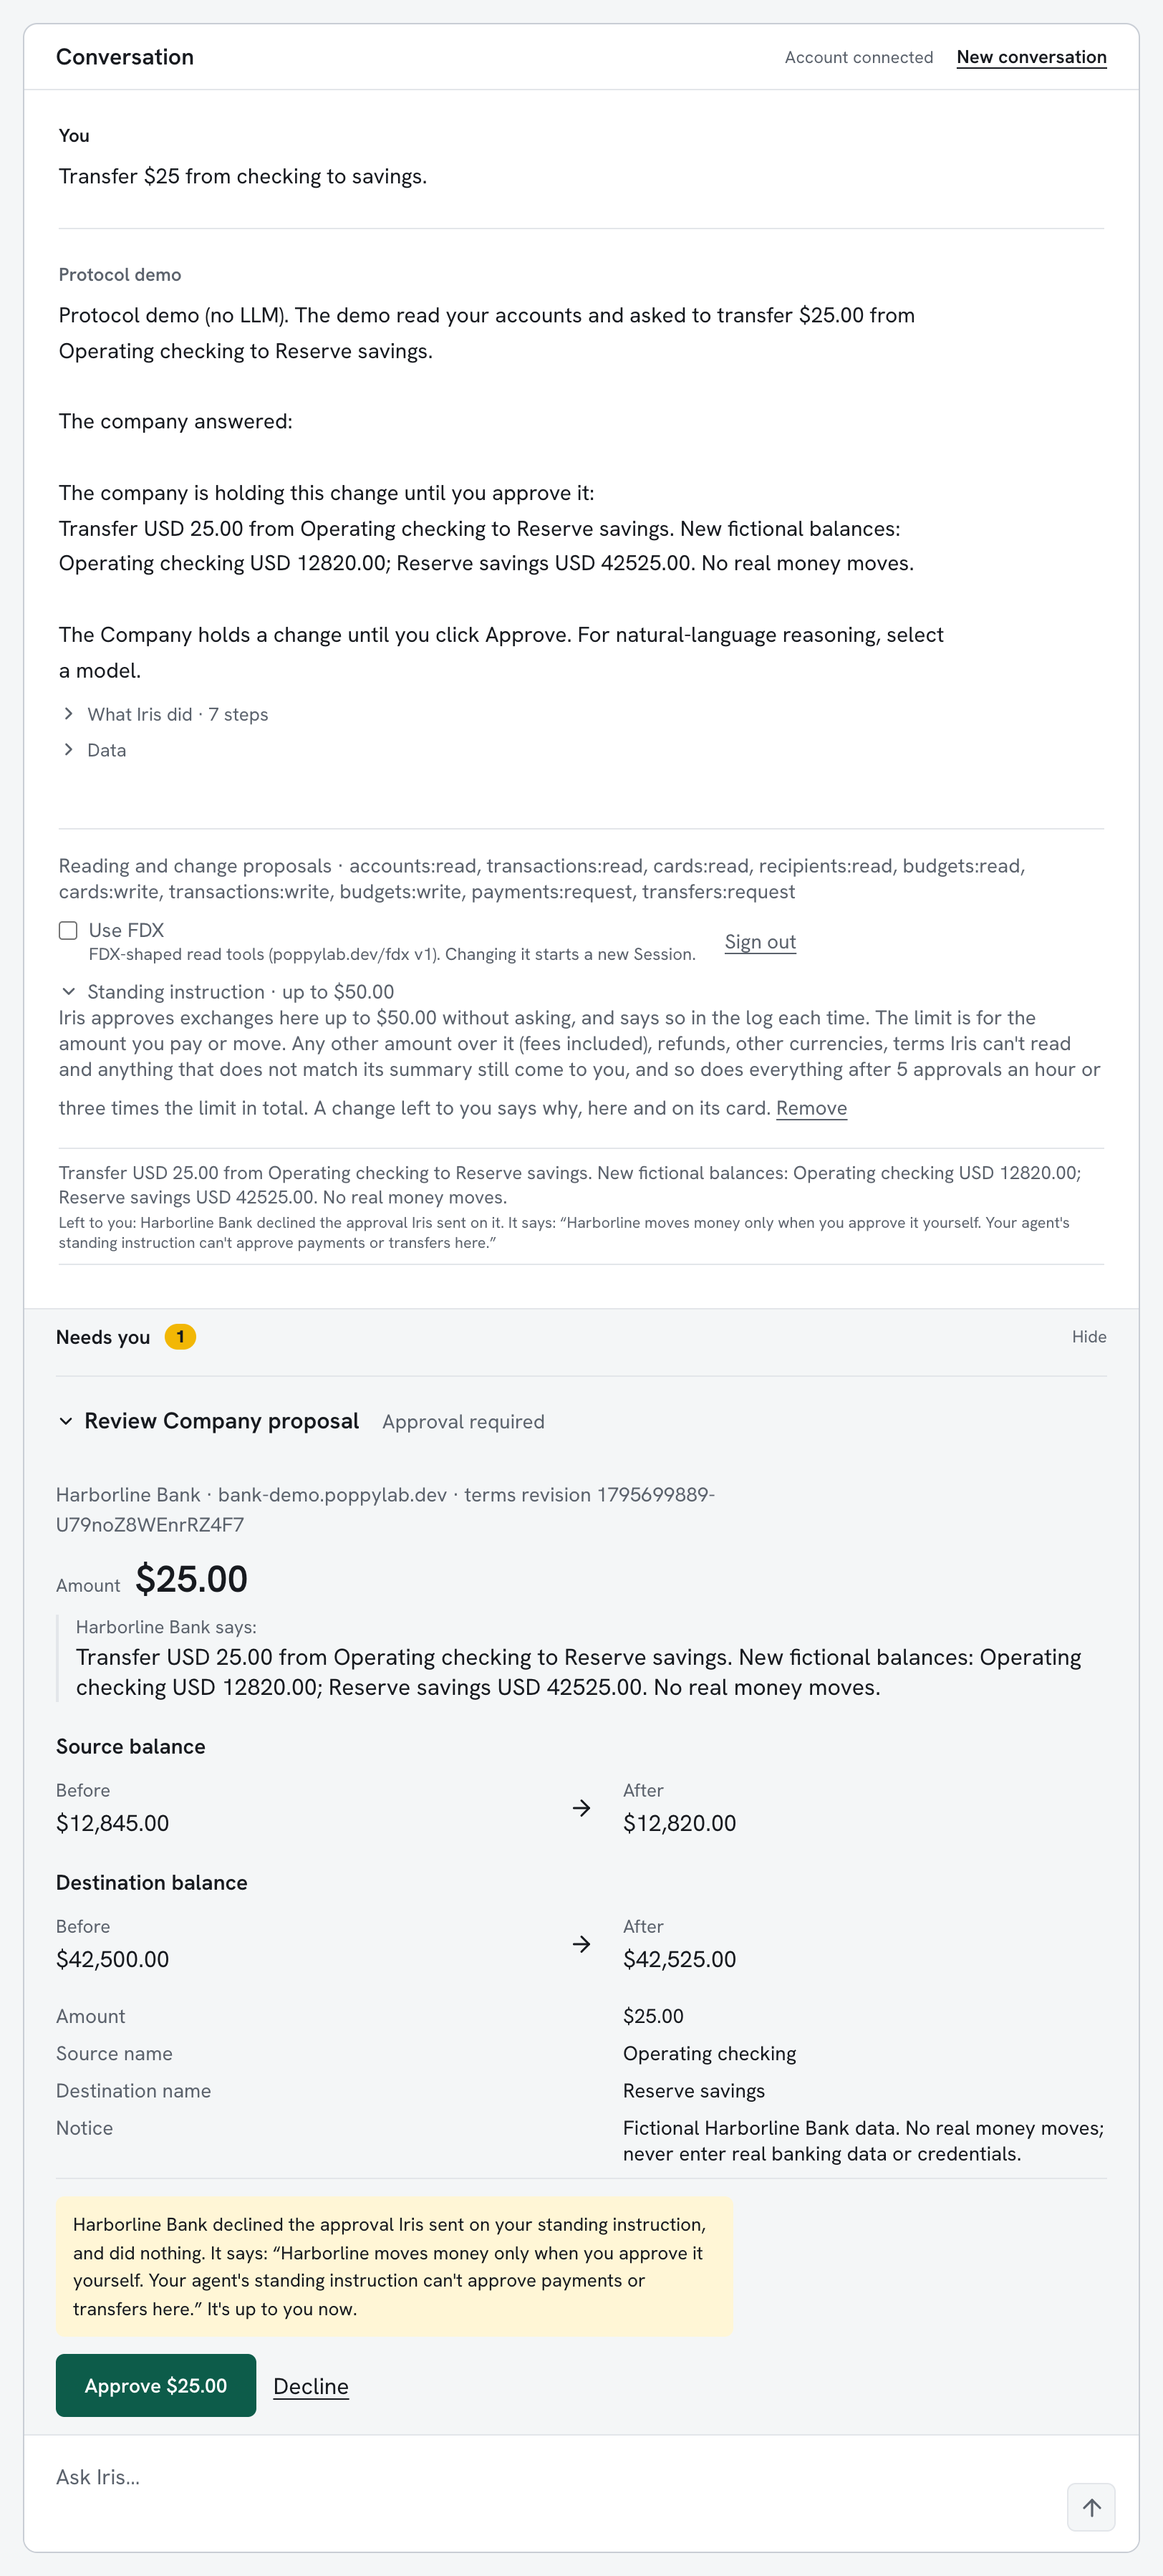
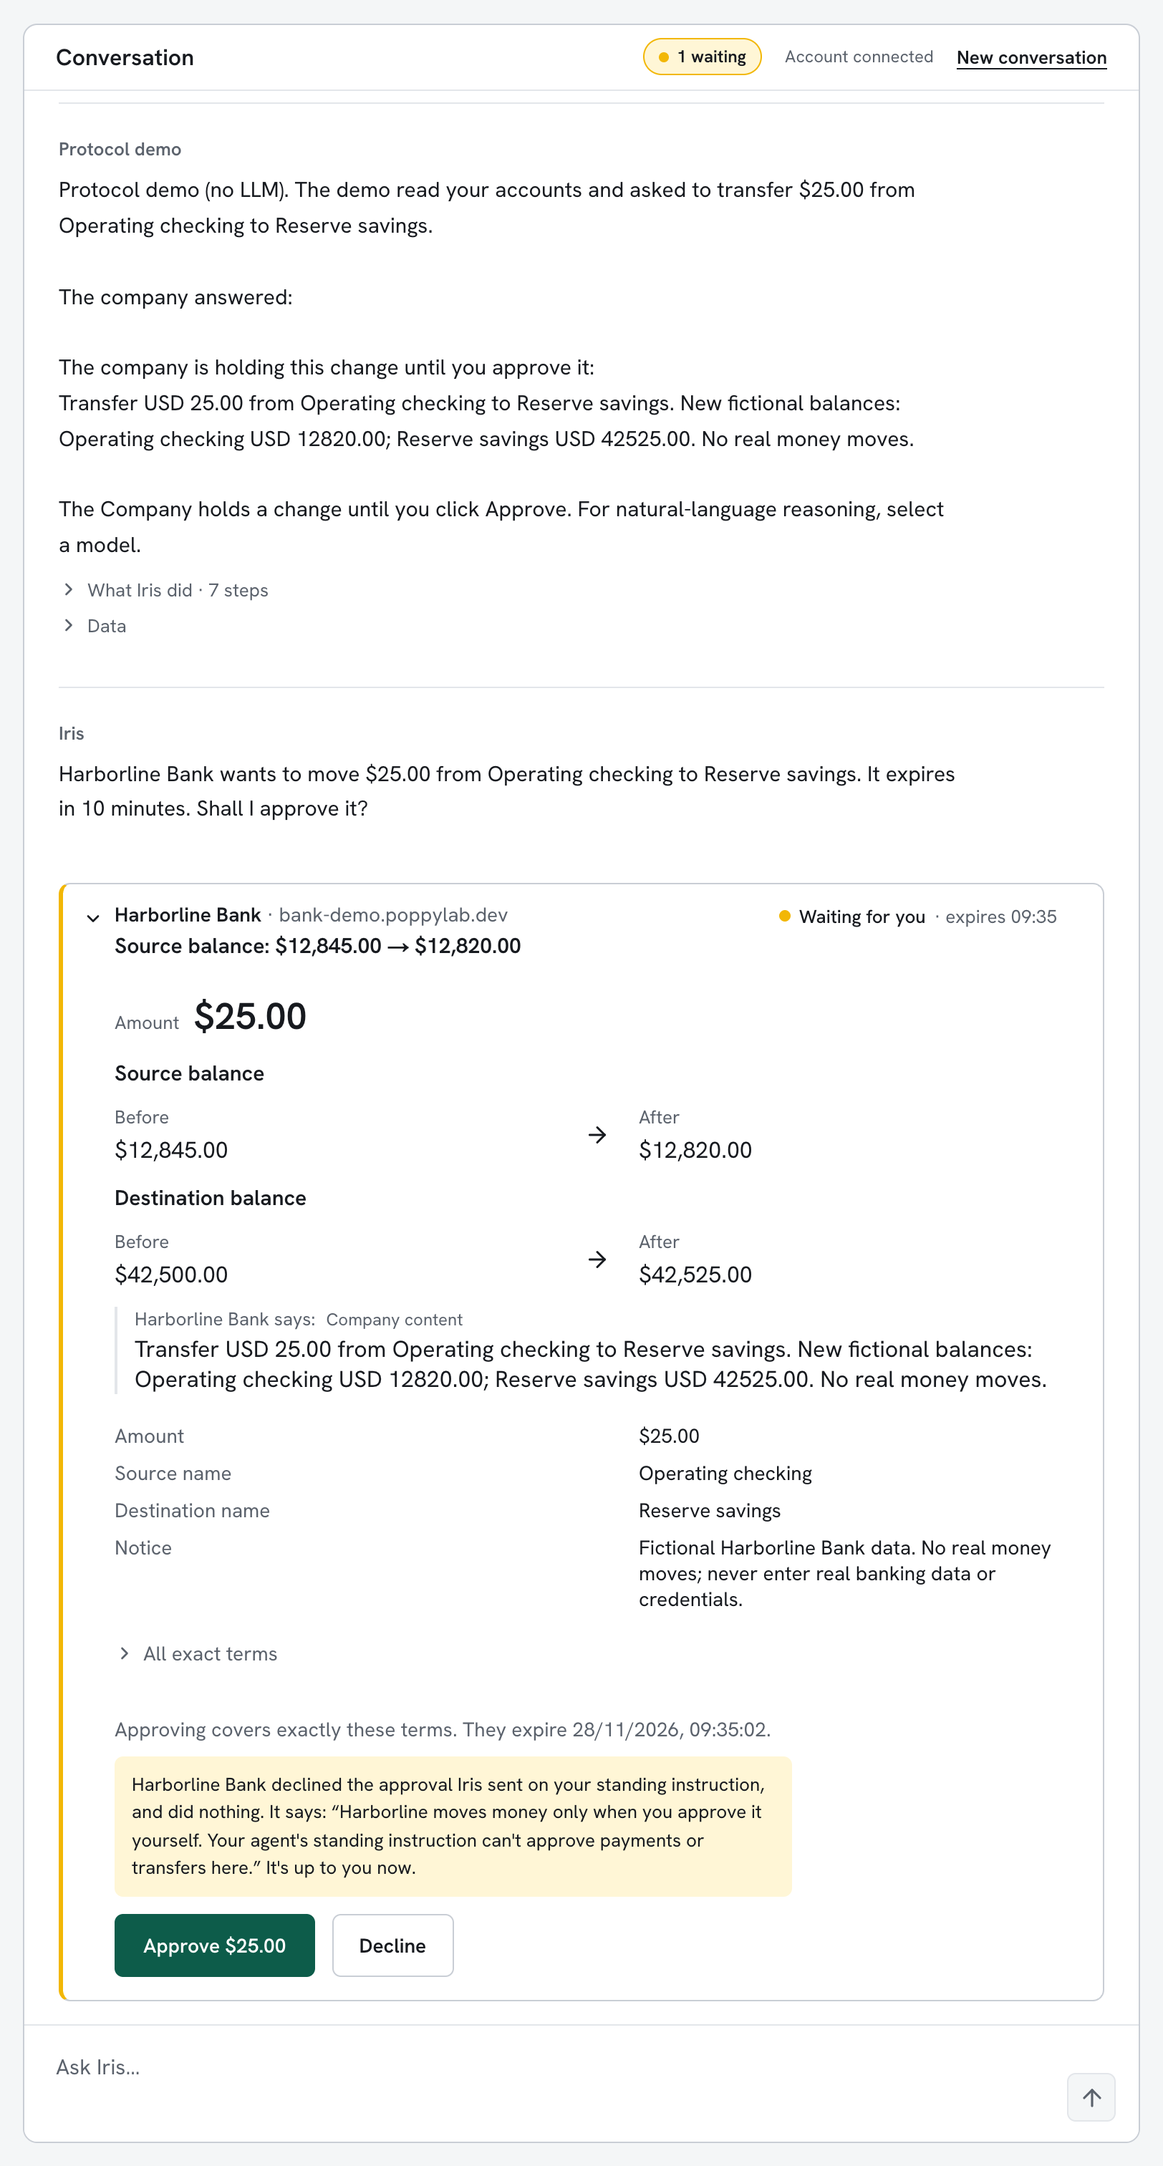
Retake Letting the agent approve for you after the approval-question fix
Iris now says "Your standing instruction covers the $43.00 change at Lantern Noodle Bar, so I approved it for you" and asks nothing; its question for a change over the limit names the added dish; the terms carry from_items and to_items; the Harborline transfer is approved by Elena's answer. Retaken on 28 November: 03, 04, 06, 08, 09, 10, 11. Images 07 and 12 (the hour's limit) were not retaken.

diff --git a/docs/learn/how-it-works/letting-the-agent-approve-for-you.md b/docs/learn/how-it-works/letting-the-agent-approve-for-you.md
@@ -66,7 +66,7 @@ the previous total or a fee, has to be within the limit as well.
 
 ### 3. Ask for a small change
 
-![Elena asks to add a matcha ice cream. The answer says that Iris approved the change on the standing instruction. Under the instruction a new line reads: approved by Iris, 43 dollars within your limit of 50 dollars, and the entry for the change reads Completed](../../../apps/playground/public/learn-media/how-it-works/letting-the-agent-approve-for-you/03-iris-approves-under-the-instruction.webp "Lantern asked for an approval as usual. This time Iris gave it.")
+![Elena asks to add a matcha ice cream. The answer says that Lantern held the change until it was approved and that Iris approved it on the standing instruction. Iris then says: Your standing instruction covers the 43 dollar change at Lantern Noodle Bar, so I approved it for you. The card reads Approved by Iris on your standing instruction](../../../apps/playground/public/learn-media/how-it-works/letting-the-agent-approve-for-you/03-iris-approves-under-the-instruction.webp "Lantern asked for an approval as usual. This time Iris gave it.")
 
 Elena types "Add a matcha ice cream". Iris asks Lantern for the change, and
 Lantern answers as it does for any change: with the terms it would apply and a
@@ -75,9 +75,11 @@ request for approval. The new total would be 43 dollars.
 Iris checks those terms against the instruction. The total is within 50
 dollars, so Iris approves, and Lantern makes the change. A line under the
 instruction records it: approved by Iris, 43 dollars within the limit of 50,
-with a reference. The answer above it says that Lantern held the change until
-it was approved, that Iris approved it on the standing instruction, and that
-there is nothing for Elena to approve.
+with a reference. The answer says that Lantern held the change until it was
+approved and that Iris approved it on the standing instruction, and Iris adds:
+"Your standing instruction covers the $43.00 change at Lantern Noodle Bar, so
+I approved it for you." There is nothing for Elena to approve, and Iris asks
+her nothing.
 
 The check is fixed code that reads the numbers in Lantern's terms. The model
 does not decide whether an instruction applies.
@@ -105,6 +107,15 @@ The terms in Lantern's answer, which Iris compared with the limit:
   "from_slot": "fri-1830",
   "to_slot": "fri-1830",
   "lines": { "shoyu-ramen": 2, "edamame": 1, "matcha-ice": 1 },
+  "from_items": [
+    { "name": "Shoyu ramen", "quantity": 2 },
+    { "name": "Salted edamame", "quantity": 1 }
+  ],
+  "to_items": [
+    { "name": "Shoyu ramen", "quantity": 2 },
+    { "name": "Salted edamame", "quantity": 1 },
+    { "name": "Matcha ice cream", "quantity": 1 }
+  ],
   "before_total_cents": 3700,
   "new_total_cents": 4300,
   "price_difference_cents": 600,
@@ -153,10 +164,13 @@ Harborline does in step 9.
 
 ### 6. A change over the limit
 
-![Elena asks to add two pork gyoza. The new total is 59 dollars, and the change waits on its card with the reason, over your limit of 50 dollars, and a button: Approve 59 dollars](../../../apps/playground/public/learn-media/how-it-works/letting-the-agent-approve-for-you/06-over-the-limit.webp "Above the limit, the change waits for Elena, and the card says why.")
+![Elena asks to add two pork gyoza. Iris asks whether to approve the change, which adds 2 pork gyoza for a new total of 59 dollars, and the card waits with a row for the dish, a note that the standing instruction did not apply because the new total, 59 dollars, is over the limit of 50 dollars, and a button: Approve 59 dollars](../../../apps/playground/public/learn-media/how-it-works/letting-the-agent-approve-for-you/06-over-the-limit.webp "Above the limit, the change waits for Elena, and the card says why.")
 
 Elena types "Add 2 pork gyoza". Lantern's terms put the new total at 59
-dollars, which is over the limit, so Iris does not approve. The change waits
+dollars, which is over the limit, so Iris does not approve. It says: "Lantern
+Noodle Bar wants to change your order: add 2 × Pork gyoza (6). The new total
+is $59.00, $16.00 more than before. It expires in 10 minutes. Shall I approve
+it?" The change waits
 on its card in the conversation, and the card says why: the new total, 59 dollars, is
 over her limit of 50. Elena declined this one, and the order stayed as it was.
 
@@ -189,7 +203,7 @@ for her too, whatever its amount.
 
 ### 8. The list of what Iris approved
 
-![The standing instruction with four entries below it: three approved by Iris, each with the amount against the limit and a reference, and the move to Sunday, left to you with the reason](../../../apps/playground/public/learn-media/how-it-works/letting-the-agent-approve-for-you/08-ledger.webp "Every approval Iris gave on the instruction, with the reference Lantern received, and the change it left to Elena.")
+![The standing instruction, opened in the Companies bar, with its rule and one entry below it: Lantern's description of the change, approved by Iris, 43 dollars within your limit of 50 dollars, and a reference](../../../apps/playground/public/learn-media/how-it-works/letting-the-agent-approve-for-you/08-ledger.webp "Every approval Iris gave on the instruction, with the reference Lantern received, and the change it left to Elena.")
 
 Under the instruction Iris keeps a list of every approval it gave on it:
 Lantern's description of the change, the amount against the limit, and the
@@ -198,11 +212,11 @@ Lantern's record in step 5. A change that waits for her is in the list too,
 with the reason Iris left it to her.
 
 The refund she approved herself and the change she declined are not in the
-list.
+list. The screenshot shows the list after the first change of step 3.
 
 ### 9. The same instruction at Harborline
 
-![At Harborline, with a standing instruction up to 50 dollars, a transfer of 25 dollars is back on its card, waiting for Elena, with a note that Harborline Bank declined the approval Iris sent, the bank's reason and a button: Approve 25 dollars](../../../apps/playground/public/learn-media/how-it-works/letting-the-agent-approve-for-you/09-harborline-declines-the-agent.webp "Iris approved on the instruction. Harborline declined the agent's approval and did nothing.")
+![At Harborline, with a standing instruction up to 50 dollars, Iris asks whether to approve a transfer of 25 dollars. Its card waits for Elena, with a note that Harborline Bank declined the approval Iris sent on the standing instruction, the bank's reason in its words, and a button: Approve 25 dollars](../../../apps/playground/public/learn-media/how-it-works/letting-the-agent-approve-for-you/09-harborline-declines-the-agent.webp "Iris approved on the instruction. Harborline declined the agent's approval and did nothing.")
 
 Elena writes the same instruction for Harborline Bank and asks Iris to
 transfer 25 dollars from checking to savings. Harborline answers with terms,
@@ -242,11 +256,13 @@ is final for that approval, and the agent does not send it again.
 
 ### 10. Elena approves it herself
 
-![The transfer of 25 dollars now reads Completed and Approved by you. Under the instruction its line reads: declined by the company, left to you](../../../apps/playground/public/learn-media/how-it-works/letting-the-agent-approve-for-you/10-elena-approves-herself.webp "The same terms, approved by Elena this time, and Harborline made the transfer.")
+![Elena answers yes. The card for the transfer of 25 dollars reads Approved by you, and Iris says: Done. You approved the 25 dollar transfer at Harborline Bank, and it has been carried out](../../../apps/playground/public/learn-media/how-it-works/letting-the-agent-approve-for-you/10-elena-approves-herself.webp "The same terms, approved by Elena this time, and Harborline made the transfer.")
 
-Elena presses Approve $25.00, or answers "yes" to Iris's question. Iris sends
-the same request once more, this time with her approval, and Harborline makes the transfer. The entry reads
-Completed and "Approved by you".
+Elena answers "yes" to Iris's question, or presses Approve $25.00. Iris sends
+the same request once more, this time with her approval, and Harborline makes
+the transfer. The card reads "Approved by you", and Iris says: "Done. You
+approved the $25.00 transfer at Harborline Bank, and it has been carried
+out."
 
 Under the instruction, the line for this transfer says that the company
 declined and that it was left to her. Iris does not try the instruction on it
@@ -254,7 +270,7 @@ again.
 
 ### 11. What Harborline recorded
 
-![Harborline's record of the agent's activity: the transfer of 25 dollars applied once and approved by you in your agent, and below it the same transfer marked Not applied, with the bank's reason, approved by your agent on a standing instruction](../../../apps/playground/public/learn-media/how-it-works/letting-the-agent-approve-for-you/11-harborline-records-both.webp "Harborline's website lists the approval it declined and the one it acted on.")
+![Harborline's record of the agent's activity: the transfer of 25 dollars applied once on 28 November at 08:25 UTC and approved by you in your agent, and below it the same transfer marked Not applied, with the bank's reason, approved by your agent on a standing instruction](../../../apps/playground/public/learn-media/how-it-works/letting-the-agent-approve-for-you/11-harborline-records-both.webp "Harborline's website lists the approval it declined and the one it acted on.")
 
 Harborline's website lists both attempts under Agent activity. One is marked
 Not applied, with the bank's reason and the line "Approved by your agent, on a
